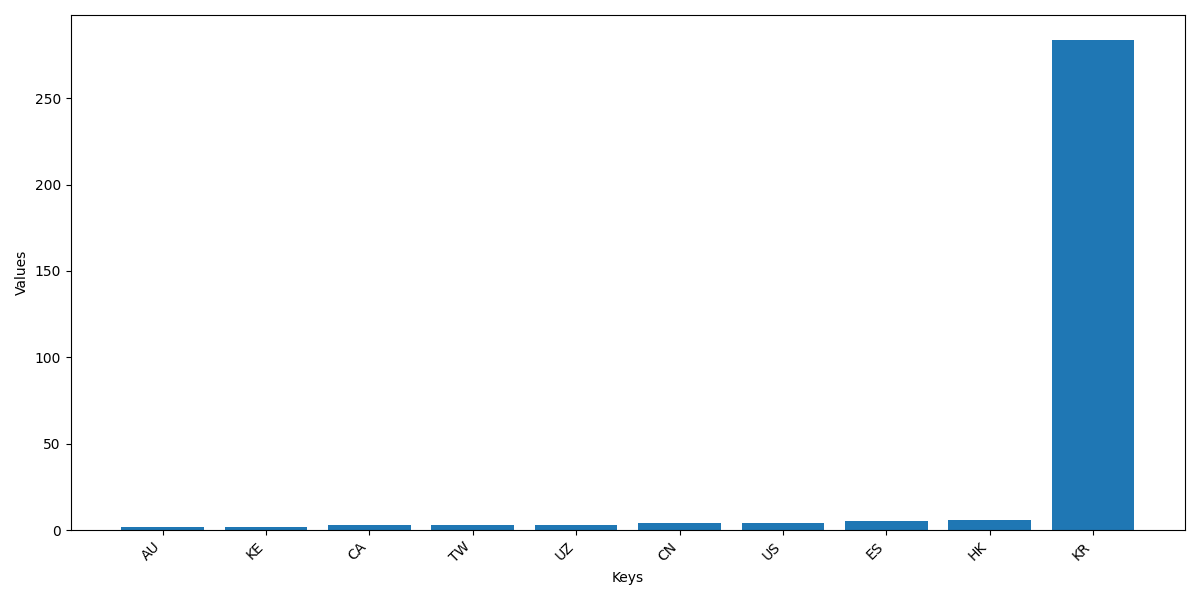
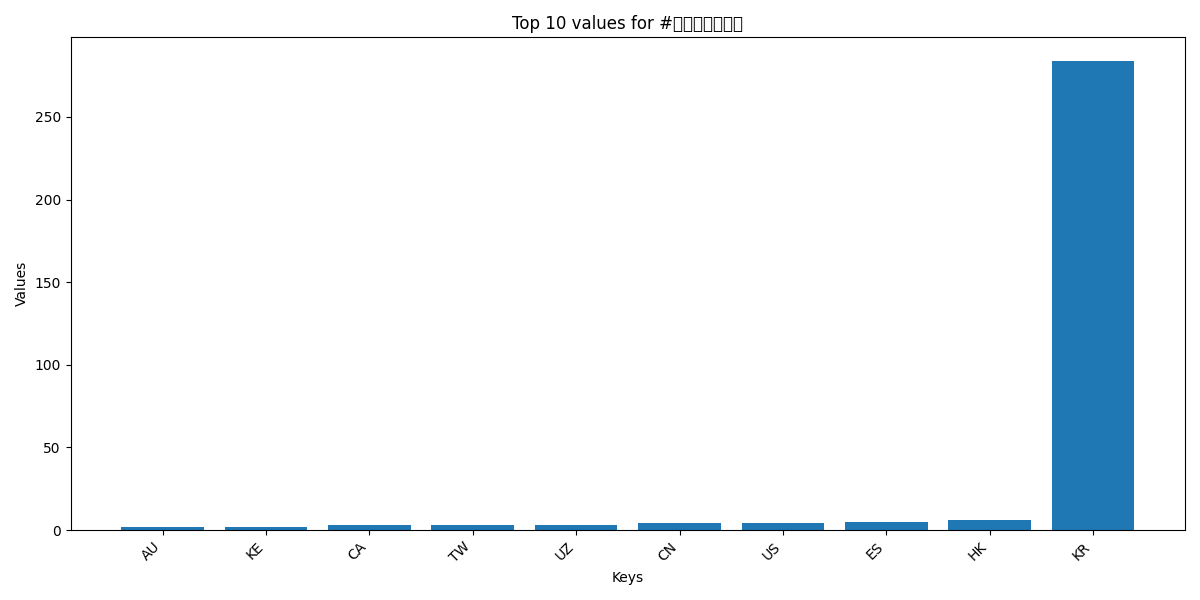
update README

diff --git a/README.md b/README.md
@@ -1,244 +1,42 @@
-# Coronavirus twitter analysis
+# Coronavirus Twitter Analysis
 
-You will scan all geotagged tweets sent in 2020 to monitor for the spread of the coronavirus on social media.
+This project scans all geotagged tweets sent in 2020 to monitor the spread of the coronavirus on social media. 
 
-**Learning Objectives:**
 
-1. work with large scale datasets
-1. work with multilingual text
-1. use the MapReduce divide-and-conquer paradigm to create parallel code
+**Skills Applied:**
 
-## Background
+- Analyze large scale datasets (~1.1 billion tweets).
+- Work with multilingual text and geotags.
+- Use Python for data processing and visualization.
+- Use MapReduce paradigm to create parallel code.
+- Use Matplotlib to generate plots.
+- Use JSON for structured data representation.
 
-**About the Data:**
+## Project Overview
 
-Approximately 500 million tweets are sent everyday.
-Of those tweets, about 2% are *geotagged*.
-That is, the user's device includes location information about where the tweets were sent from.
-The lambda server's `/data/Twitter dataset` folder contains all geotagged tweets that were sent in 2020.
-In total, there are about 1.1 billion tweets in this dataset.
-
-The tweets are stored as follows.
-The tweets for each day are stored in a zip file `geoTwitterYY-MM-DD.zip`,
-and inside this zip file are 24 text files, one for each hour of the day.
-Each text file contains a single tweet per line in JSON format.
-JSON is a popular format for storing data that is closely related to python dictionaries.
-
-Vim is able to open compressed zip files,
-and I encourage you to use vim to explore the dataset.
-For example, run the command
-```
-$ vim /data/Twitter\ dataset/geoTwitter20-01-01.zip
-```
-Or you can get a "pretty printed" interface with a command like
-```
-$ unzip -p /data/Twitter\ dataset/geoTwitter20-01-01.zip | head -n1 | python3 -m json.tool | vim -
-```
-
-**About MapReduce:**
-
-You will follow the [MapReduce](https://en.wikipedia.org/wiki/MapReduce) procedure to analyze these tweets.
-MapReduce is a famous procedure for large scale parallel processing that is widely used in industry.
-It is a 3 step procedure summarized in the following image:
-
-<img src=img/mapreduce.png width=100% />
-
-I have already done the partition step for you (by splitting up the tweets into one file per day).
-You will have to do the map and reduce steps.
-
-**MapReduce Runtime:**
-
-Let $n$ be the size of the dataset and $p$ be the number of processors used to do the computation.
-The simplest and most common scenario is that the map procedure takes time $O(n)$ and the reduce procedure takes time $O(1)$.
-(These will be the runtimes of our map/reduce procedures.)
-In this case, the overall runtime is $O(n/p + \log p)$.
-In the typical case when $p$ is much smaller than $n$,
-then the runtime simplifies to $O(n/p)$.
-This means that:
-1. doubling the amount of data will cause the analysis to take twice as long;
-1. doubling the number of processors will cause the analysis to take half as long;
-1. if you want to add more data and keep the processing time the same, then you need to add a proportional number of processors.
-
-More complex runtimes are possible.
-Merge sort over MapReduce is the classic example. 
-Here, mapping is equivalent to sorting and so takes time $O(n \log n)$,
-and reducing is a call to the `_merge` function that takes time $O(n)$.
-But they are both rare in practice and require careful math to describe,
-so we will ignore them.
-In the merge sort example, it requires $p=n$ processors just to reduce the runtime down to $O(n)$...
-that's a lot of additional computing power for very little gain,
-and so is impractical.
-
-It is currently not known which algorithms can be parallelized with MapReduce and which algorithms cannot be parallelized this way.
-Most computer scientists believe there are some algorithms which cannot be parallelized,
-but we don't yet have a proof that this is the case.
-In theoretical computer science, this problem is called the [$NC\stackrel{?}{=}P$ problem](https://en.wikipedia.org/wiki/NC_(complexity)),
-and is closely related to the more famous $P\stackrel{?}{=}NP$ problem.
-
-## Background Tasks
-
-We will walk through these steps in class.
-
-**Task 0: Setup**
-
-Fork this repo and clone it onto the lambda server.
-
-**Task 1: Map**
-
-In the [posix-mapreduce lab](https://github.com/mikeizbicki/lab-posix-mapreduce), you wrote a 1 line shell command that counts the number of tweets sent in each language on a particular day.
-It might have looked something like
-```
-$ unzip -p "$file" | jq '.lang' | sort | uniq -c | sort -n 
-```
-For this first task, you should translate this into python.
-The python file should be called `map.py` and be located in a folder `src`.
-
-The "disadvantage" of python is that it is more verbose.
-The advantage is that we can do more complicated data analysis problems.
-
-After creating the `map.py` file above,
-adjust it so that for each hashtag in the `./hashtags` file,
-it tracks how many tweets were sent in each language.
-
-> **NOTE:**
-> We didn't completely finish writing our `map.py` file in class.
-> A completed version is already in the git history of this repo, however,
-> and so it is in the `.git` folder of your cloned project.
-> You can checkout the file from the history and copy it into your working directory with the incantation
-> ```
-> $ git checkout bf76137 -- src/map.py
-> ```
-
-**Task 2: Reduce**
-
-Now write a python file `./src/reduce.py` that takes as input the outputs from the `map.py` file above and reduces them together.
-This file should do an element-wise addition of all the counts.
-
-> **NOTE:**
-> To get access to the reduce file, modify the git command in the previous note.
-> The file is located in the same commit.
-
-## Main Tasks
-
-Complete the following tasks:
-
-**Task 0: Create the mapper**
-
-Modify the `map.py` file so that it tracks the usage of the hashtags on both a language and country level.
-This will require creating a variable `counter_country` similar to the variable `counter_lang`, 
-and modifying this variable in the `#search hashtags` section of the code appropriately.
-The output of running `map.py` should be two files now, one that ends in `.lang` for the language dictionary (same as before),
-and one that ends in `.country` for the country dictionary.
-
-> **HINT:**
-> Most tweets contain a `place` key,
-> which contains a dictionary with the `country_code` key.
-> This is how you should lookup the country that a tweet was sent from.
-> Some tweets, however, do not have a `country_code` key.
-> This can happen, for example, if the tweet was sent from international waters or the [international space station](https://web.archive.org/web/20220124224726/https://unistellaroptics.com/10-years-ago-today-the-first-tweet-was-sent-directly-from-space/).
-> Your code will have to be generic enough to handle edge cases similar to this without failing.
-
-**Task 1: Run the mapper**
-
-> **HINT:**
-> You should thoroughly test your `map.py` file on a single day's worth of tweets and verify that you are getting reasonable results before moving on to this step.
-
-Create a shell script called `run_maps.sh`.
-This file will loop over each file in the dataset and run the `map.py` command on that file.
-Each call to `map.py` can take up to a day to finish, so you should use the `nohup` command to ensure the program continues to run after you disconnect and the `&` operator to ensure that all `map.py` commands run in parallel.
-
-> **HINT:**
-> Use the glob `*` to select only the tweets from 2020 and not all tweets.
-
-**Task 2: Reduce**
-
-> **HINT:**
-> You should manually inspect the output of your mapper code to ensure that it is reasonable and that you did not run into any error messages.
-> If you have errors above that you don't deal with,
-> then everything else below will be incorrect.
-
-After your modified `map.py` has run on all the files,
-you should have a large number of files in your `outputs` folder.
-Use the `reduce.py` file to combine all of the `.lang` files into a single file,
+1. **Mapper (`map.py`)**: Tracks the usage of the hashtags on a country and language level, creating two files, one for the language dictionary and one for the country dictionary for every day in 2020.
+2. **Reduce (`reduce.py`)**: Combine `.lang` files into a single file,
 and all of the `.country` files into a different file.
+3. **Visualize (`visualize.py`)**: Generate bar graphs showing top 10 countries or languages for a selected hashtag.
+4. **Alternative Reduce (`alternative_reduce.py`)**: Generates line plot showing hashtag usage trends over the year.
 
-**Task 3: Visualize**
 
-You can visualize your output files with the command
-```
-$ ./src/visualize.py --input_path=PATH --key=HASHTAG
-```
-Currently, this prints the top keys to stdout.
+## Visualizations
 
-Modify the `visualize.py` file so that it generates a bar graph of the results and stores the bar graph as a png file.
-The horizontal axis of the graph should be the keys of the input file,
-and the vertical axis of the graph should be the values of the input file.
-The final results should be sorted from low to high, and you only need to include the top 10 keys.
+Top 10 countries who tweeted `#coronavirus` in 2020. The x-axis is the country and the y-axis is the number of times `#coronavirus` was tweeted. 
+![Top countries using #coronavirus](all.country.hashtag_coronavirus.png)
 
-> **HINT:**
-> We are not covering how to create images from python code in this class.
-> I recommend you use the matplotlib library,
-> and you can find some samples to base your code off of [in the documentation here](https://matplotlib.org/3.1.1/tutorials/introductory/sample_plots.html).
+Top 10 languages where `#coronavirus` was tweeted in 2020. The x-axis is the language and the y-axis is the number of times `#coronavirus` was tweeted. 
+![Top languages using #coronavirus](all.lang.hashtag_coronavirus.png)
 
-Then, run the `visualize.py` file with the `--input_path` equal to both the country and lang files created in the reduce phase, and the `--key` set to `#coronavirus` and `#코로나바이러스`.
-This should generate four plots in total.
+Top 10 countries who tweeted `#코로나바이러스` in 2020. The x-axis is the country and the y-axis is the number of times `#코로나바이러스` was tweeted. 
+![Top countries using #코로나바이러스](all.country.hashtag_코로나바이러스.png)
 
-**Task 4: Alternative Reduce**
+Top 10 languages were `#코로나바이러스` was tweeted in 2020. The x-axis is the language and the y-axis is the number of times `#코로나바이러스` was tweeted.
+![Top languages using #코로나바이러스](all.lang.hashtag_코로나바이러스.png)
 
-Create a new file `alternative_reduce.py`.
-This file should take as input on the command line a list of hashtags,
-and output a line plot where:
-1. There is one line per input hashtag.
-1. The x-axis is the day of the year.
-1. The y-axis is the number of tweets that use that hashtag during the year.
+Daily hashtag trends for `#coronavirus` and `#코로나바이러스` plotted over the year. The x-axis is the day of the year and the y-axis is the number of tweets on that day containing the hashtag. 
 
-Your `alternative_reduce.py` file have to follow a similar structure to a combined version of the `reduce.py` and `visualize.py` files.
-First, you will scan through all of the data in the `outputs` folder created by the mapping step.
-In this scan, you will construct a dataset that contains the information that you need to plot.
-Then, after you have extracted this information,
-you should call the appropriate matplotlib functions to plot the data.
+![Year trends for #coronavirus and #코로나바이러스](outputs/hashtags_coronavirus_코로나바이러스_trend.png)
 
-> **HINT:**
-> The specifications for this program and plot are intentionally underspecified
-> (similar to how many real-world problems are underspecified).
-> Feel free to ask clarifying questions.
 
-**Task 5: Uploading**
-
-Commit all of your code and images output files to your github repo and push the results to github.
-You must:
-1. Delete the current contents of the `README.md` file
-1. Insert into the `README.md` file a brief explanation of your project, including the 4 generated png files.
-    This explanation should be suitable for a future employer to look at while they are interviewing you to get a rough idea of what you accomplished.
-    (And you should tell them about this in your interviews!)
-
-## Submission
-
-Upload a link to you github repository on sakai.
-I will look at your code and visualization to determine your grade.
-
-**Grading:**
-
-The assignment is worth 32 points:
-
-1. 8 points for getting the map/reduce to work
-1. 8 points for your repo/readme file
-1. 8 points for Task 3 plots
-1. 8 points for Task 4 plots
-
-The most common ways to miss points are:
-1. having incorrect data plotted (because the map program didn't finish running on all of the inputs)
-1. having illegible plots that are not "reasonably" formatted
-
-Notice that we are not using CI to grade this assignment.
-There's two reasons:
-
-1. You can get slightly different numbers depending on some of the design choices you make in your code.
-    For example, should the term `corona` count tweets that contain `coronavirus` as well as tweets that contain just `corona`?
-    These are relatively insignificant decisions.
-    I'm more concerned with your ability to write a shell script and use `nohup`, `&`, and other process control tools effectively.
-
-1. The dataset is too large to upload to github actions.
-    In general, writing test cases for large data analysis tasks is tricky and rarely done.
-    Writing correct code without test cases is hard,
-    and so many (most?) analysis of large datasets contain lots of bugs.
